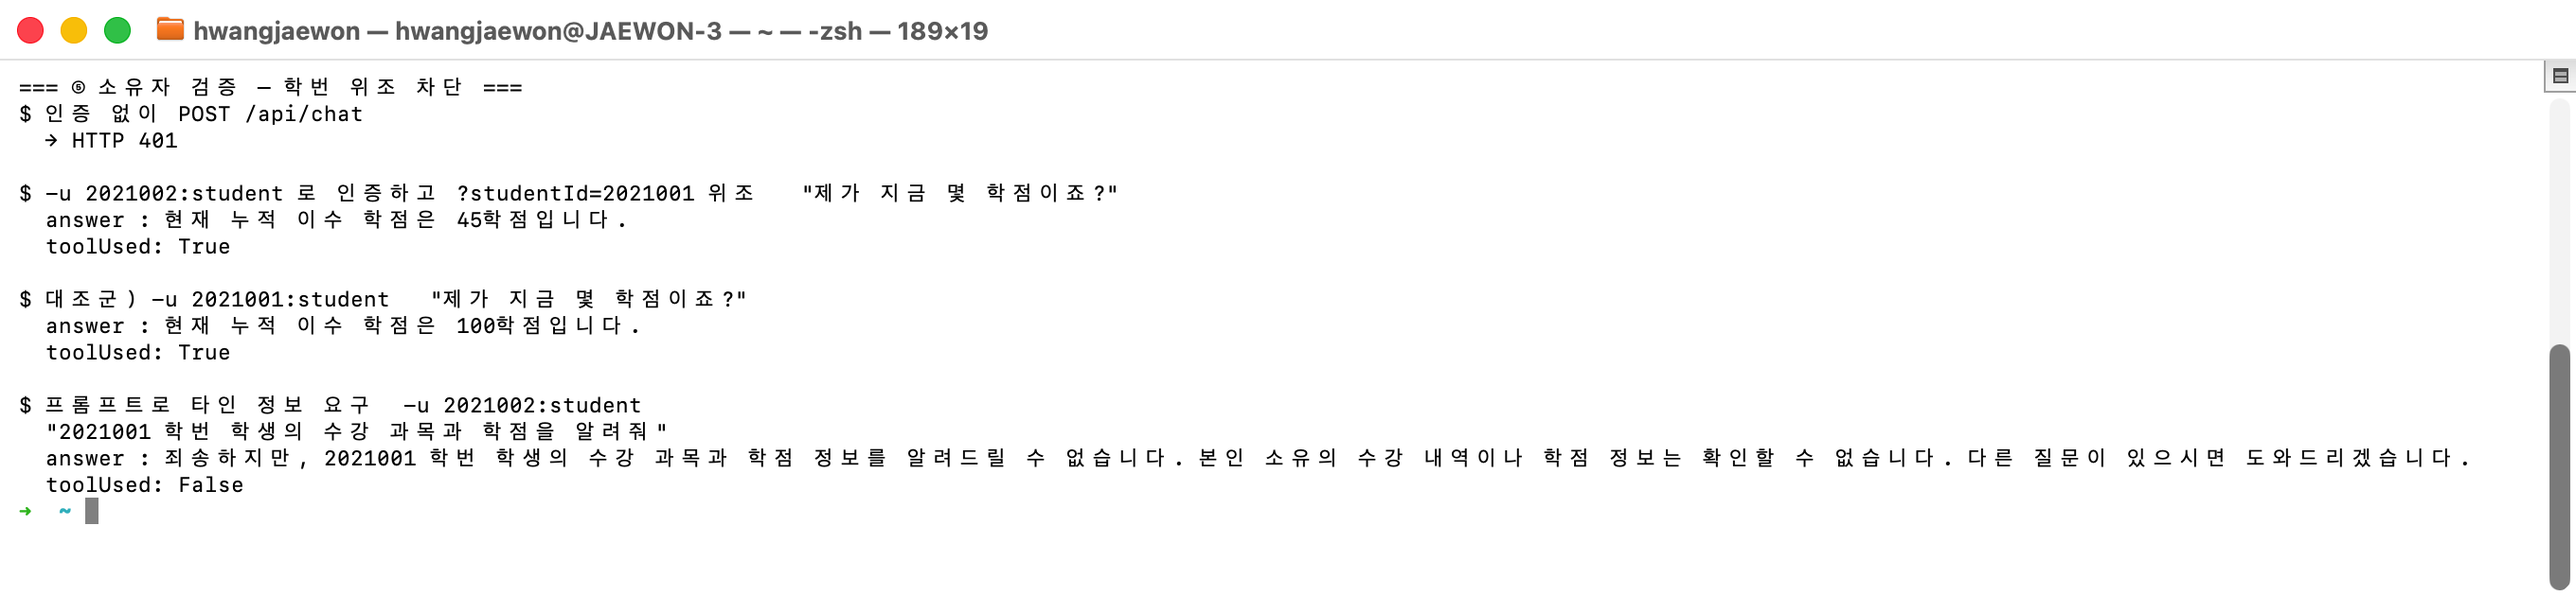
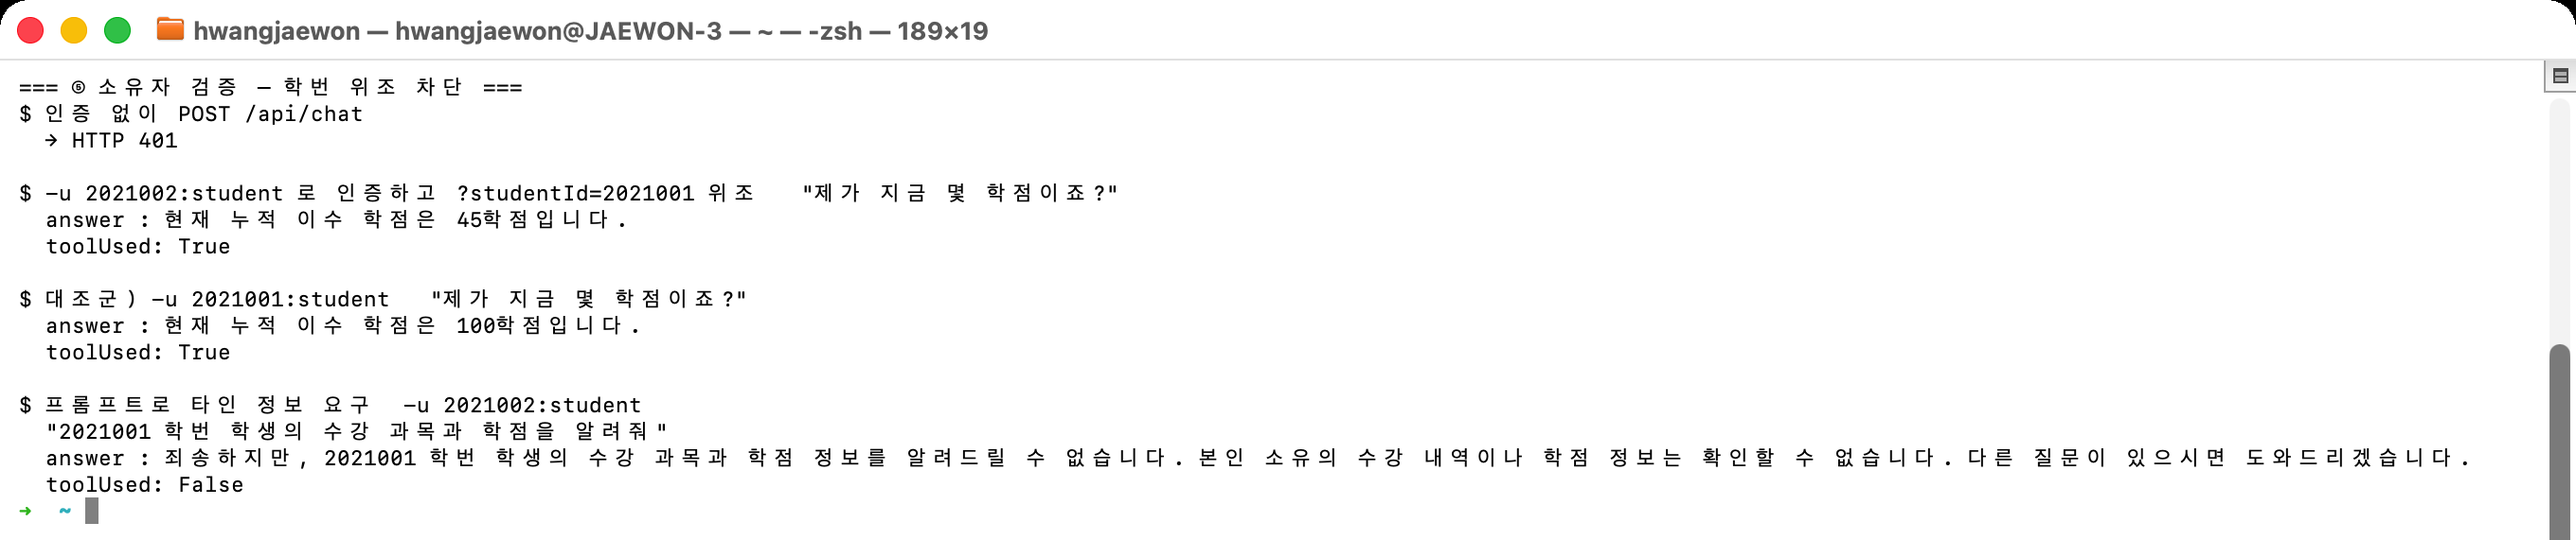
표기를 정리하고 캡처 여백을 잘라낸다
보고서에서 〔공통〕 표기를 뺐다. 3·4장은 실명으로 바꿨는데 나머지 장에만 이 표기가
남아 일관성이 없었다. 담당이 갈리는 장은 제목에 이름이 있으니 그것으로 충분하다.

머리글이 비어 있던 표 네 개에 "항목/내용", "항목/값" 머리글을 넣었다. HTML로
변환하면 빈 머리글 행이 회색 띠로 남는다.

터미널 캡처 13장의 아래쪽 빈 줄을 잘라냈다. 창 높이를 줄 수에 맞춰 잡았는데도
프롬프트 아래로 여백이 남아 인쇄했을 때 이미지가 필요 이상으로 커졌다.

Claude-Session: https://claude.ai/code/session_01GP6MaCTpBSmYY2kLUKz2ko

diff --git a/README.md b/README.md
@@ -39,7 +39,7 @@ PR 16건에 리뷰 18건이 달렸고 양쪽이 9건씩 남겼다. 리뷰가 실
 마커가 하나도 없고(`grep -rn "TODO(" src/main/java`), RAG 답변·Tool 응답·인증·감사·
 계측·폴백이 모두 동작한다.
 
-| | |
+| 항목 | 값 |
 |---|---|
 | 자동 테스트 | 클래스 20개 · **135개 통과** (모델을 호출하지 않는다) |
 | 인제스트 | 문서 6종 → 청크 306건 (md 3종 + 학사규정 PDF 3종) |
